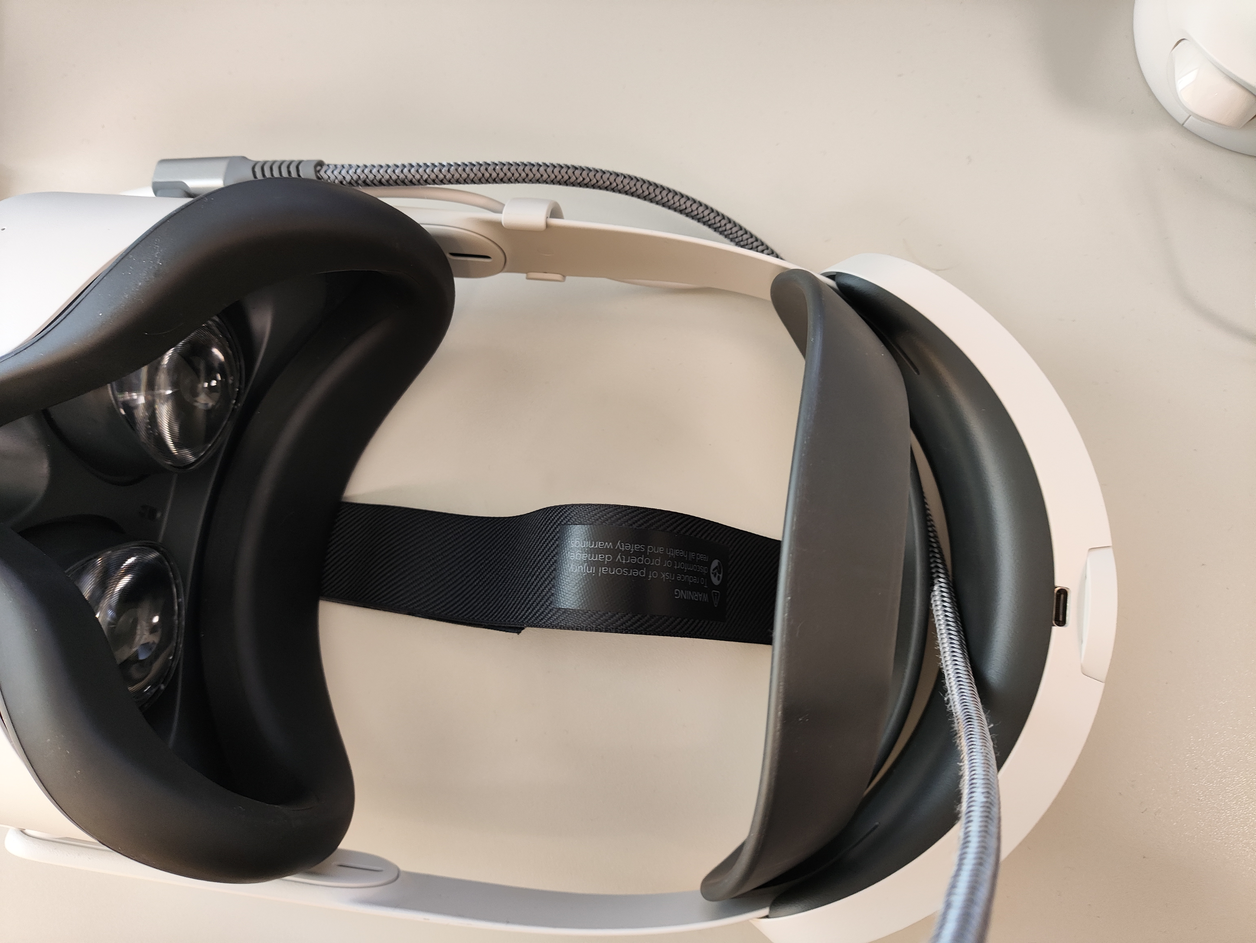
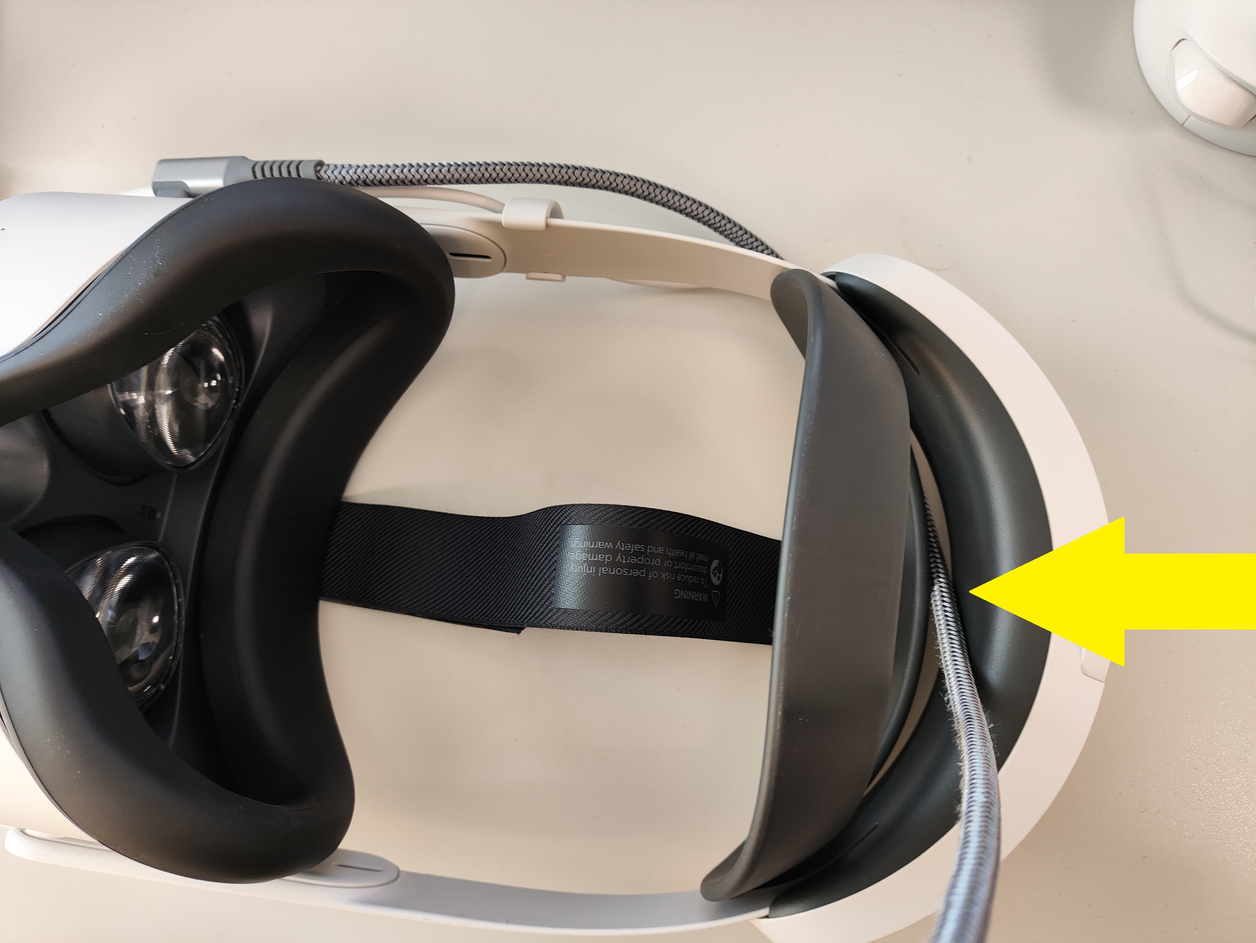
maj

Changed region(s): [[0.7785, 0.5288, 1.0, 0.7154]]

diff --git a/guide2/README.md b/guide2/README.md
@@ -103,7 +103,7 @@ Maintenant, nous allons connecter le PC au casque de réalité virtuelle. Pour c
 
 <img src="image/oculus/cableoculus.png" alt="Cable Meta" height="auto" width="650">
 
-après on peut faire passer le cable de l'ordinateur entre la baterie arriere et le caoutchouc 
+*Conseil* : Il est très utile de protéger la connexion filaire en faisant passer le cable USB entre la batterie arriere du casque et le caoutchouc. Ceci permet de limiter les risques d'arrachement si quelqu'un mqrche sur le cable. 
 
 <img src="image/oculus/oculuscote.jpg" alt="oculuscote" height="auto" width="450">
 
